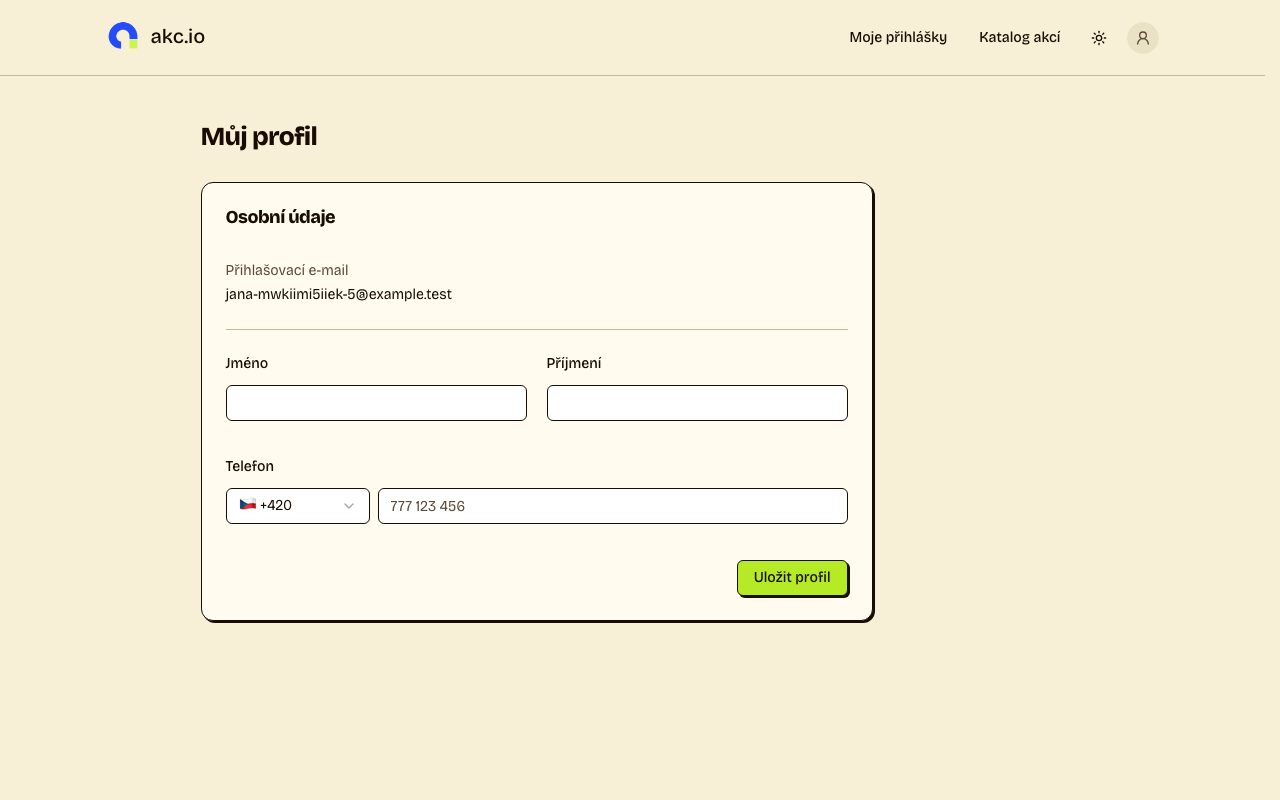
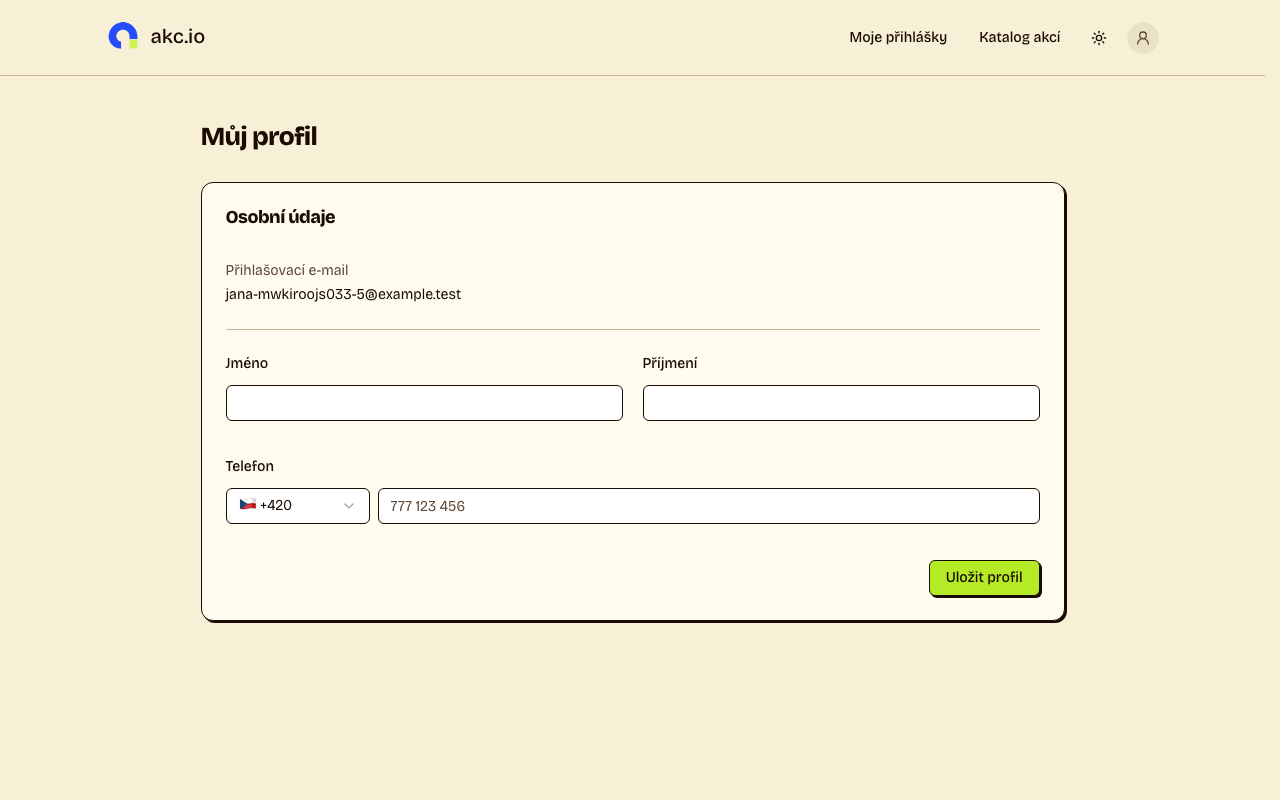
feat(participant): Můj profil card spans the page like the other cards (S4-08)

diff --git a/apps/frontend/src/features/participant-access/components/ParticipantProfile.tsx b/apps/frontend/src/features/participant-access/components/ParticipantProfile.tsx
@@ -39,7 +39,7 @@ export function ParticipantProfile({ sessionEnded }: ParticipantProfileProps) {
       ) : (
         <LoadingBlock
           label="Načítání profilu"
-          className="max-w-2xl space-y-4"
+          className="space-y-4"
         >
           <Skeleton className="h-10 w-full" />
           <Skeleton className="h-10 w-full" />

diff --git a/apps/frontend/src/features/participant-access/components/ParticipantProfileForm.tsx b/apps/frontend/src/features/participant-access/components/ParticipantProfileForm.tsx
@@ -74,7 +74,6 @@ export function ParticipantProfileForm({ profile }: ParticipantProfileFormProps)
         noValidate
         aria-label="Můj profil"
         onSubmit={form.handleSubmit(onSubmit)}
-        className="max-w-2xl"
       >
         <Card>
           <CardHeader>
